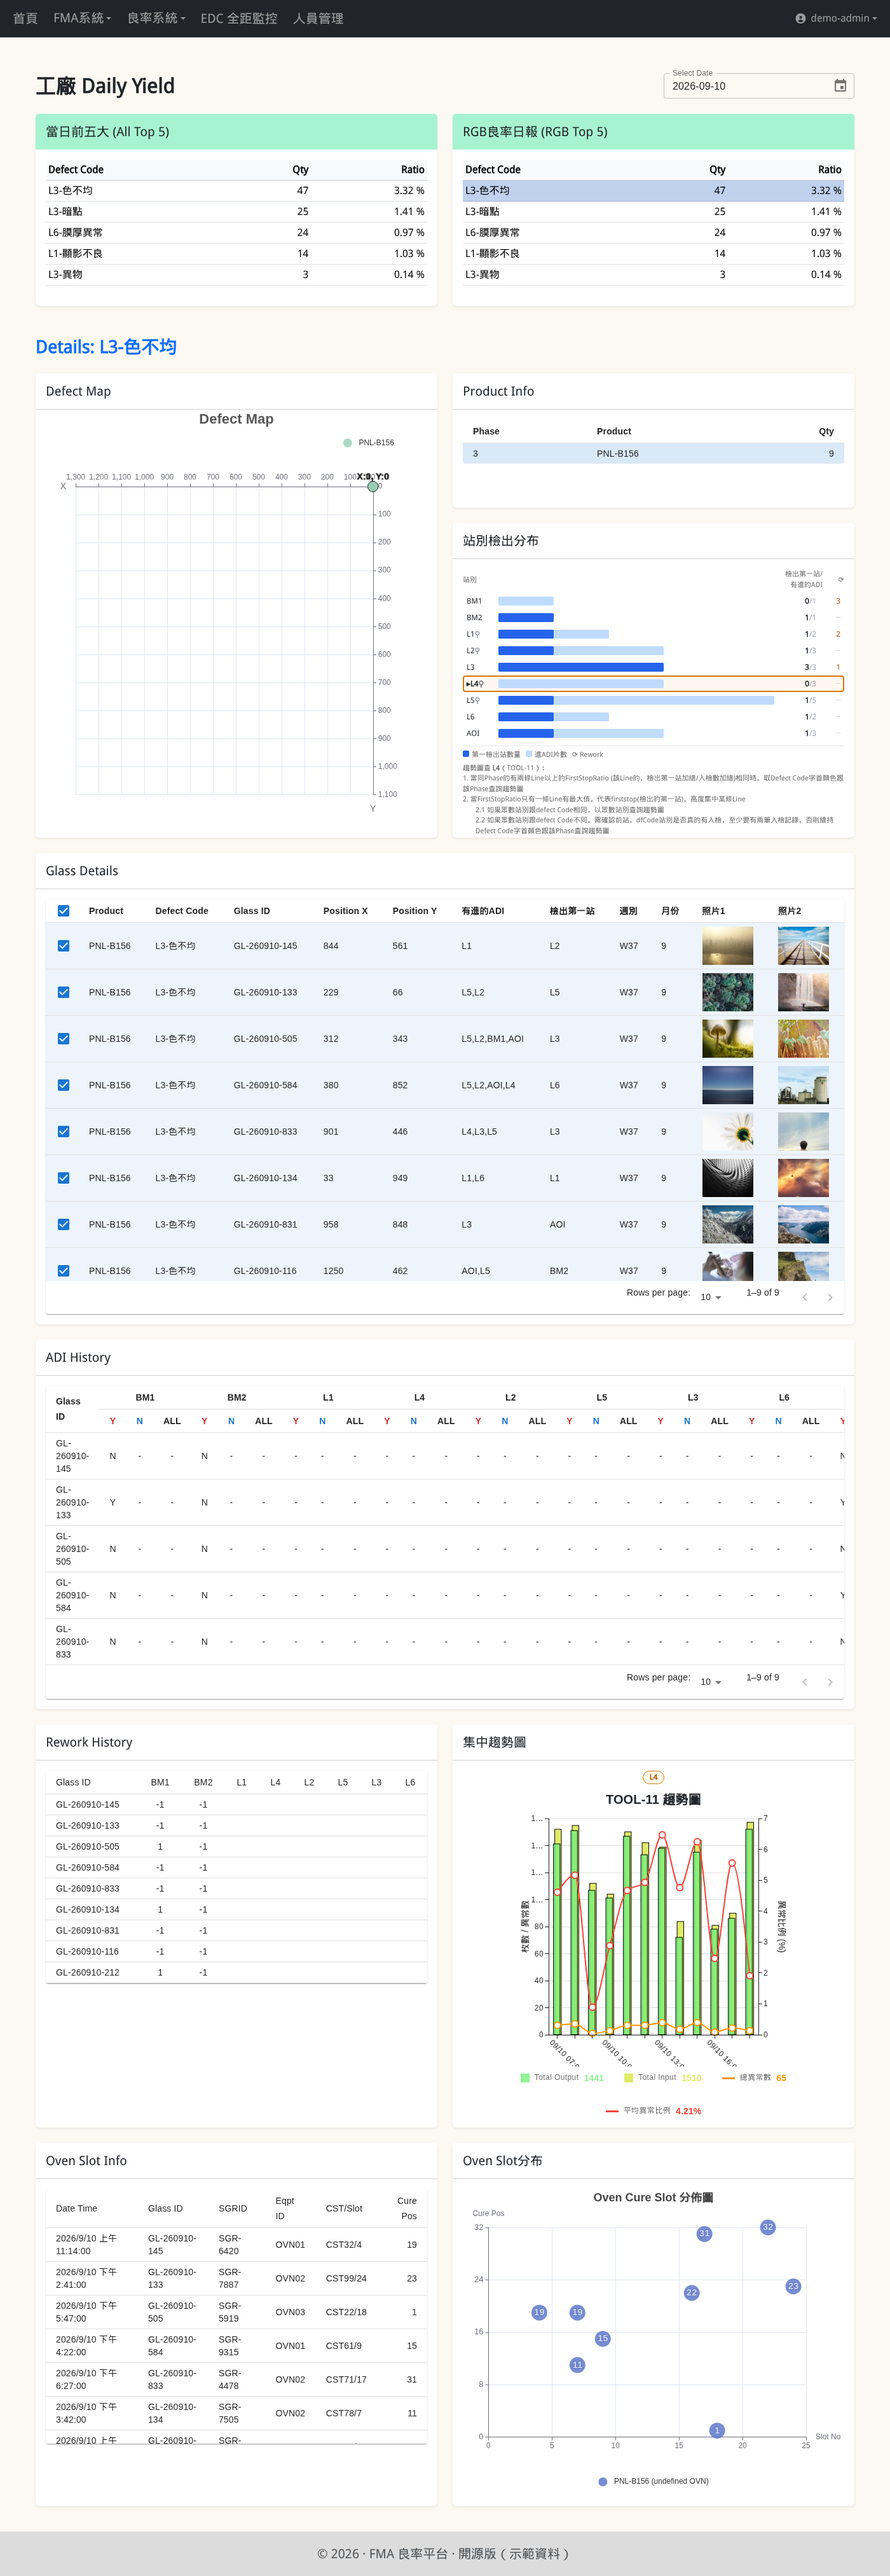
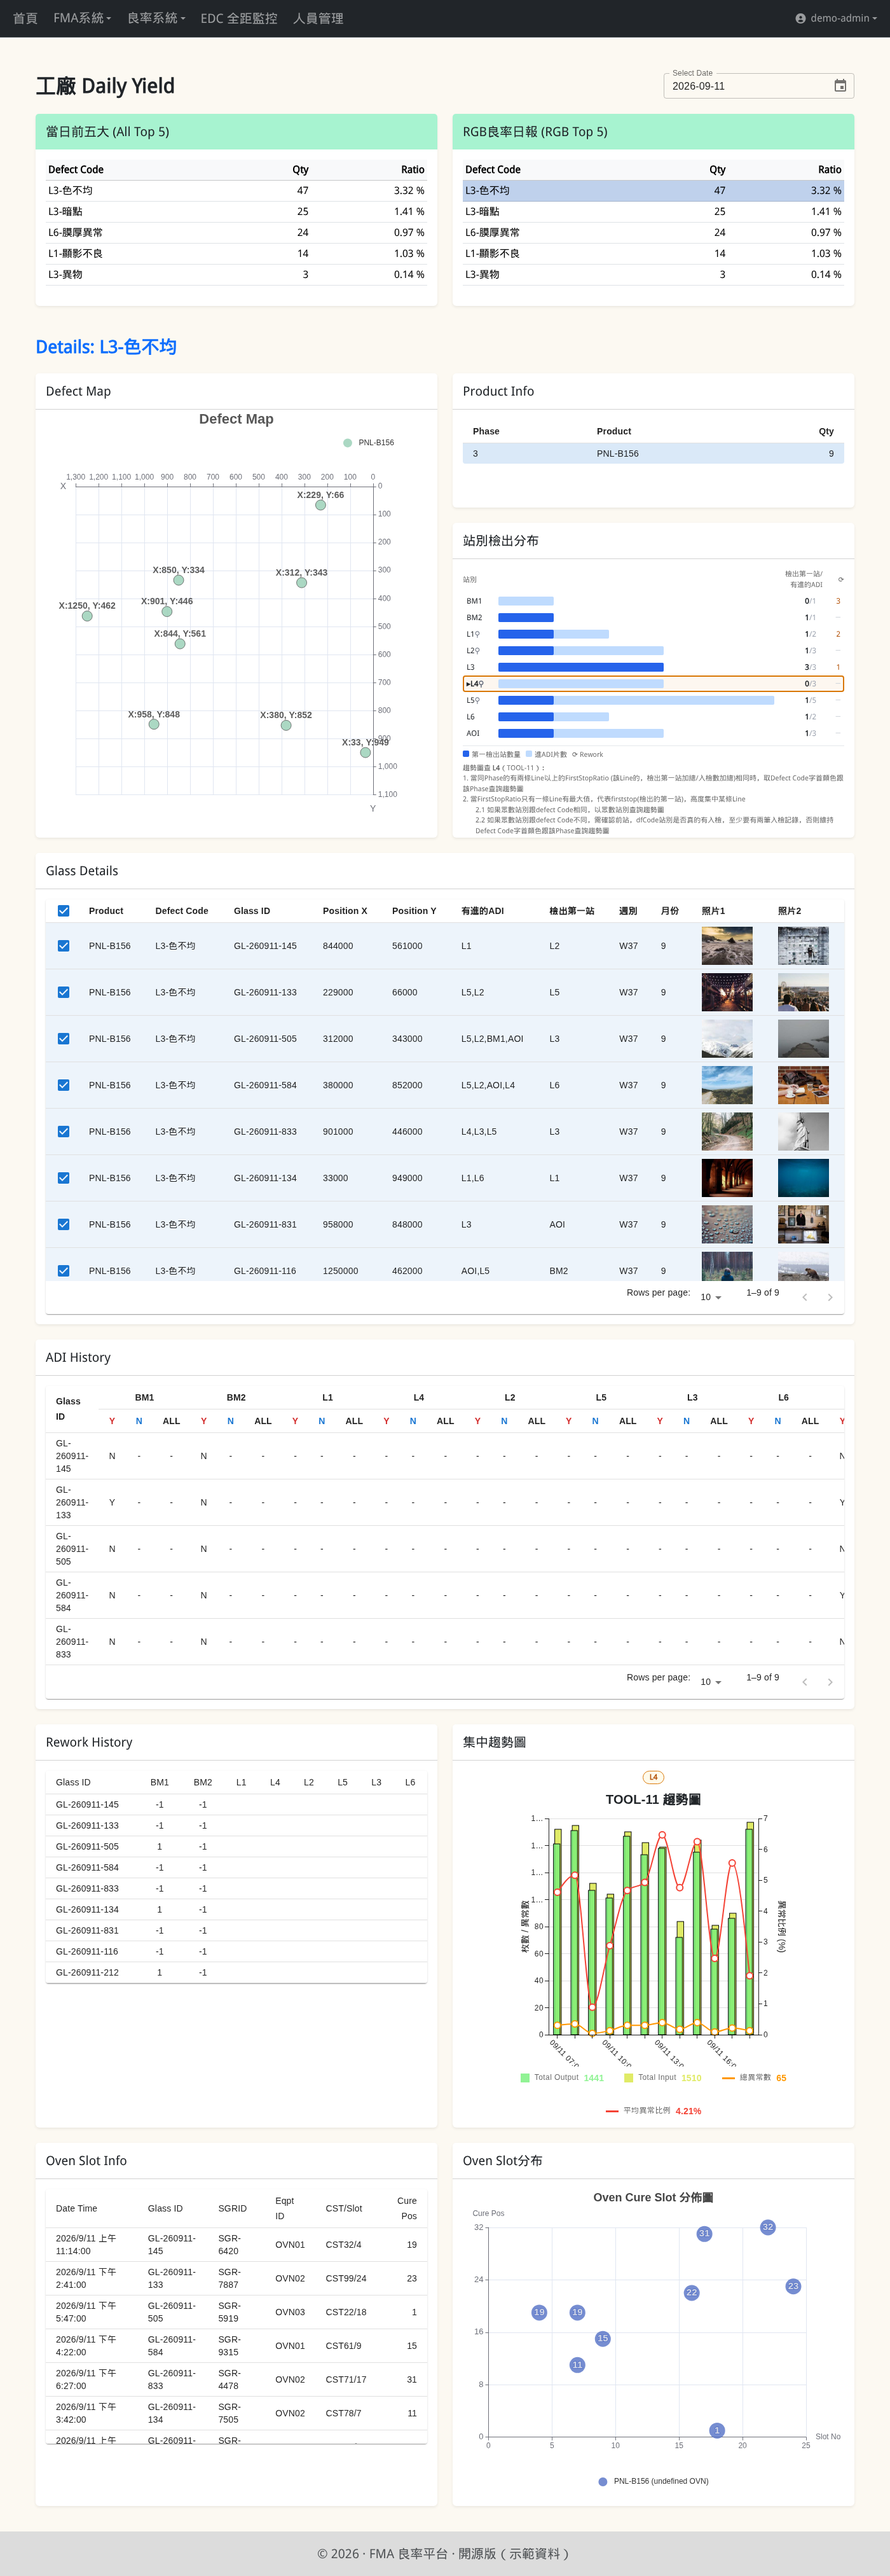
fix(seed): Defect Map 座標數量級（mm → μm）+ README 未結批截圖與版面
Defect Map 空白的根因不是前端：UnfinishDefectMap / DefectScatterChart（與私有版一字不差）
把座標 ÷1000 畫在 0~1300 / 0~1100 的軸上，因為來源系統給的是 μm。seedAdapter.js 卻給
mm 級的 rng.int(0, 1300)，÷1000 後全部縮到零點角落，看起來是空圖。Daily Yield 與
未結批兩張 map 同一根因。

- seedAdapter.js：GlassInfo.xpos/ypos 與 unfinish_defect_details.x/y 改 × 1000，
  前端不動。imagetb.xpos（FMA Label 表格直接顯示不換算）不改
- docs/ingestion.md：新增「欄位單位與格式」表——座標 μm ÷1000、EqAction.startend 精確格式、
  begintime 格式、pred_result、EDC 欄名 regex，接自己資料流時最容易撞到的幾個坑
- README：未結批 / 甘特圖拆成兩節各自全寬；Daily Yield 段補 Defect Map 說明
- 截圖：05-unfinish 改用有資料的日期、三層全展開；03-daily-yield 重拍，Defect Map 有點
- progress.md 記錄根因與修法

Changed region(s): [[0.7679, 0.3422, 0.9521, 0.4978], [0.2457, 0.8711, 0.2764, 0.9333], [0.1843, 0.2178, 0.215, 0.2489]]

diff --git a/server/ingestion/seedAdapter.js b/server/ingestion/seedAdapter.js
@@ -103,7 +103,9 @@ async function seedDailyYield(day, seedBase) {
       });
 
       await GlassInfo.create({
-        gid, xpos: rng.int(0, 1300), ypos: rng.int(0, 1100),
+        // 座標單位 μm（0~1,300,000 × 0~1,100,000）：前端 Defect Map 會 ÷1000 畫在 0~1300 / 0~1100 的軸上，
+        // 給 mm 級（0~1300）的話全部擠到零點角落、圖看起來是空的
+        gid, xpos: rng.int(0, 1300) * 1000, ypos: rng.int(0, 1100) * 1000,
         inspectstops: inspect, dfcode: rgb.dfcode, week: `W${isoWeek(day)}`,
         month: dayjs(day).month() + 1, firststop: firstStop,
         img: `https://picsum.photos/seed/${gid}a/240/180`,
@@ -214,7 +216,7 @@ async function seedUnfinish(day, seedBase) {
         glassid: glassId(day, rng.int(1, 999)),
         p_no: String(rng.int(1, 6)),
         defect_name: d.defectcode,
-        x: String(rng.int(0, 1300)), y: String(rng.int(0, 1100)),
+        x: String(rng.int(0, 1300) * 1000), y: String(rng.int(0, 1100) * 1000), // μm，同 GlassInfo
         defect_group: `G${rng.int(1, 4)}`,
         product: lotRow.product,
         tedt: `${dayjs(day).format("YYYY/MM/DD")} ${pad(rng.int(8, 18))}:${pad(rng.int(0, 59))}`,

diff --git a/README.md b/README.md
@@ -73,8 +73,9 @@ and a **YOLO vision pipeline that classifies defect images and pre-fills the FMA
 
 ### Daily Yield 三層鑽取
 
-當日前五大缺陷 → 點一筆展開 Glass Details（每片 glass 的 X/Y、檢出站別、缺陷照片）、
-站別檢出分布、ADI / Rework 履歷、集中趨勢圖（產出／投入／異常率雙軸）、Oven Slot 分布。
+當日前五大缺陷 → 點一筆展開 Defect Map（缺陷在基板上的座標分布）、Glass Details（每片 glass 的
+X/Y、檢出站別、缺陷照片）、站別檢出分布、ADI / Rework 履歷、集中趨勢圖（產出／投入／異常率雙軸）、
+Oven Slot 分布。
 
 ![daily-yield](docs/images/03-daily-yield.png)
 
@@ -89,15 +90,19 @@ and a **YOLO vision pipeline that classifies defect images and pre-fills the FMA
 
 ![edc](docs/images/04-edc-spc.png)
 
-### 未結批良率 · 排程與機況甘特圖
+### 未結批良率三層鑽取
 
-還在製程中的 lot 也能看良率與缺陷分布（Lot 清單 → Defect 分布 → Glass 明細三層鑽取）；
-機況頁把每條產線的排程與設備事件畫成甘特圖。
+還在製程中的 lot 也能看良率與缺陷分布，不必等結批。Lot 清單（依全良率排序的長條 + 明細表）
+→ 點一個 lot 看 Defect 分布（藍色長條 = 達門檻可再鑽入）→ 點一根長條展開該 defect 的
+Glass Details、ADI / Rework 履歷、Defect Map、集中趨勢圖。
 
-<p float="left">
-  <img src="docs/images/05-unfinish.png" width="49%" />
-  <img src="docs/images/06-eq-gantt.png" width="49%" />
-</p>
+![unfinish](docs/images/05-unfinish.png)
+
+### 排程與機況甘特圖
+
+每條產線的排程與設備事件（DOWN / PM / HOLD / 調整…）畫成甘特圖，底部可拖拉縮放時間軸。
+
+![eq-gantt](docs/images/06-eq-gantt.png)
 
 ## 架構
 

diff --git a/docs/ingestion.md b/docs/ingestion.md
@@ -35,6 +35,19 @@ EDC 的分段 / 全距 / 離群分析是純函式（`server/domain/edcAnalysis.j
 
 ---
 
+## 欄位單位與格式（容易踩的坑）
+
+| 欄位 | 單位 / 格式 | 說明 |
+|---|---|---|
+| `GlassInfo.xpos` / `ypos`、`unfinish_defect_details.x` / `y` | **μm**（0 ~ 1,300,000 × 0 ~ 1,100,000） | 前端 Defect Map 會 **÷1000** 後畫在 0~1300 / 0~1100 mm 的軸上。給 mm 級的值會全部縮到零點角落，圖看起來是空的 |
+| `imagetb.xpos` / `ypos` | 任意（字串） | FMA 影像表格直接顯示，不換算 |
+| `EqAction.startend` | `YYYY-MM-DD 07:00 - YYYY-MM-DD 07:00` | 機況頁以此字串**精確比對**查詢，格式要一字不差 |
+| `EqAction.begintime` / `endtime` | `YYYY/MM/DD HH:mm:ss` | 甘特圖與趨勢圖 tooltip 用 |
+| `imagetb.pred_result` | JSON 字串 | 契約見下方「YOLO 影像」 |
+| `EdcGlassRecord` 的 `Shot{n}_Final_{FRX…}` | 數值 | 欄位名要與 `domain/edcAnalysis.js` 的 `MONITOR_COLUMN_RE` 相符才會被納入監控 |
+
+`seedAdapter.js` 就是照這張表產資料的，接自己資料流時可直接對照它的寫法。
+
 ## 三種常見的串接 pattern
 
 ### 1. 直連來源資料庫（最單純）

diff --git a/docs/dev/progress.md b/docs/dev/progress.md
@@ -166,6 +166,16 @@ DragDropImageTable、AG-Grid YOLO 複判、FMA echart）(4) demo 不需跑 Pytho
 `**爬蟲永不觸碰**` → `**匯入流程永不觸碰**`、移除私有 repo 的歷史敘述（`2026-08-05 起取代…`）、
 `EDC 原始欄名` → `來源系統原始欄名`。私有 `CLAUDE.md` 不移植。
 
+## Defect Map 空白 bug（2026-09-11）
+
+**根因**：`seedAdapter.js` 座標給 mm 級（`rng.int(0, 1300)`），但前端 `UnfinishDefectMap` /
+`DefectScatterChart`（與私有版一字不差）會 **÷1000** 畫在 0~1300 / 0~1100 的軸上——來源系統給的是 μm
+（私有版 `firststop` 用 ±3000 容差比對也印證）。÷1000 後全部縮到零點角落，看起來是空圖。
+Daily Yield 與未結批兩張 map 同一根因。
+
+**修法**：只改 seed 兩行 `× 1000`（`GlassInfo.xpos/ypos`、`unfinish_defect_details.x/y`），前端不動。
+`imagetb.xpos`（FMA Label 表格直接顯示）不改。單位契約已寫進 `docs/ingestion.md`「欄位單位與格式」。
+
 ## 下一步
 
 - [ ] **階段 5**：README（目前仍是 22 行「🚧 建置中」佔位）+ 架構圖 + CONTRIBUTING
